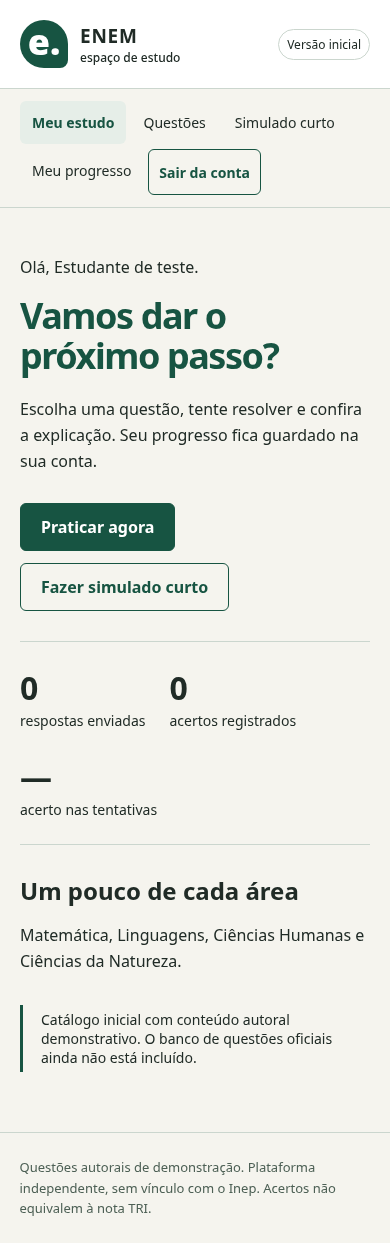
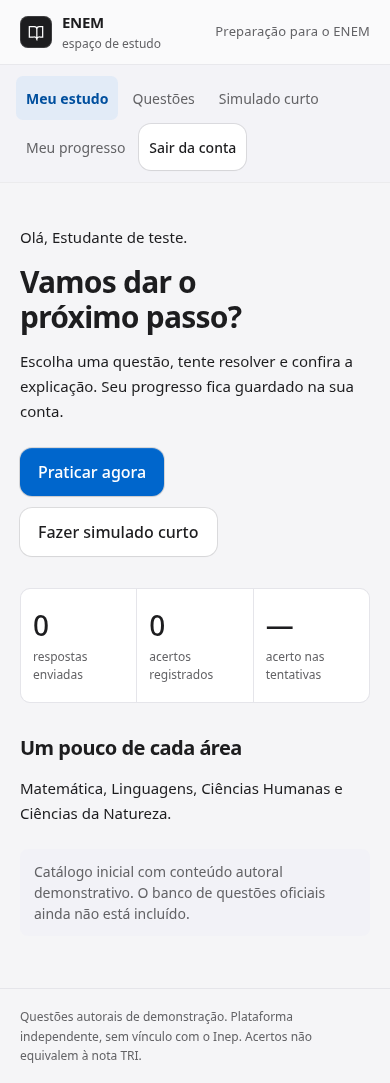
Aplica apple-design à interface e aos estados de estudo

diff --git a/app/public/estilo.css b/app/public/estilo.css
@@ -1,19 +1,21 @@
 :root {
-  --fundo: #fafafa; --painel: #fff; --texto: #202020; --secundario: #666;
-  --linha: #e9e9e9; --suave: #f3f3f3; --destaque: #262626; --foco: #405de6;
+  --fundo: #f5f5f7; --painel: #fff; --texto: #1d1d1f; --secundario: #636366;
+  --linha: #e5e5ea; --suave: #f2f2f7; --destaque: #0066cc; --foco: #0066cc;
+  --altura-cabecalho: 4.5rem;
   --curva: cubic-bezier(.23,1,.32,1);
-  font-family: -apple-system, BlinkMacSystemFont, "Segoe UI", sans-serif;
+  font-family: -apple-system, BlinkMacSystemFont, "Segoe UI", system-ui, sans-serif;
+  font-size: 100%; line-height: 1.5; font-optical-sizing: auto;
   color: var(--texto); background: var(--fundo); color-scheme: light;
   -webkit-font-smoothing: antialiased;
 }
 * { box-sizing: border-box; }
 body { margin: 0; }
 a { color: inherit; text-underline-offset: 3px; }
-button, input, select { font: inherit; font-size: 14px; }
+button, input, select { font: inherit; font-size: .9375rem; }
 button, a, input, select { touch-action: manipulation; -webkit-tap-highlight-color: transparent; }
 button, .botao {
   display: inline-flex; align-items: center; justify-content: center; gap: 8px;
-  min-height: 44px; padding: 11px 16px; border: 0; border-radius: 8px;
+  min-height: 2.875rem; padding: .75rem 1.125rem; border: 0; border-radius: .75rem;
   background: var(--destaque); color: white; text-decoration: none; font-weight: 550;
   box-shadow: 0 0 0 1px rgb(0 0 0 / .12), 0 1px 2px rgb(0 0 0 / .06), inset 0 1px 0 rgb(255 255 255 / .1);
   cursor: pointer; transition: transform 140ms var(--curva), background-color 140ms ease;
@@ -23,79 +25,104 @@ button:disabled { opacity: .55; cursor: not-allowed; }
 :focus-visible { outline: 3px solid var(--foco); outline-offset: 4px; }
 header {
   display: flex; justify-content: space-between; align-items: center; gap: 16px;
-  min-height: 72px; padding: 0 32px; background: var(--painel); border-bottom: 1px solid var(--linha);
+  min-height: var(--altura-cabecalho); padding: .75rem max(2rem,env(safe-area-inset-right)) .75rem max(2rem,env(safe-area-inset-left));
+  position: sticky; top: 0; z-index: 5;
+  background: rgb(250 250 252 / .84); backdrop-filter: blur(20px) saturate(140%);
+  box-shadow: 0 1px 0 rgb(0 0 0 / .045);
 }
 .marca { display: inline-flex; align-items: center; gap: 10px; text-decoration: none; }
 .simbolo { display: grid; place-items: center; width: 32px; height: 32px; border-radius: 8px; color: white; background: var(--texto); flex-shrink: 0; box-shadow: inset 0 0 0 1px rgb(255 255 255 / .14); }
 .simbolo svg { width: 20px; height: 20px; }
-.marca strong { font-size: 15px; letter-spacing: -.02em; font-weight: 650; }
-.marca strong span { display: block; color: var(--secundario); font-size: 11px; font-weight: 400; letter-spacing: 0; margin-top: 1px; }
-.etiqueta { color: var(--secundario); font-size: 12px; }
+.marca strong { font-size: .9375rem; letter-spacing: -.02em; font-weight: 650; }
+.marca strong span { display: block; color: var(--secundario); font-size: .75rem; font-weight: 400; letter-spacing: 0; margin-top: 1px; }
+.etiqueta { color: var(--secundario); font-size: .8125rem; }
 .estrutura { display: flex; min-height: calc(100svh - 130px); max-width: 1440px; margin: auto; }
-nav { width: 224px; padding: 28px 16px; flex-shrink: 0; border-right: 1px solid var(--linha); }
-nav a { display: flex; align-items: center; min-height: 44px; padding: 11px 12px; margin-bottom: 4px; text-decoration: none; color: var(--secundario); border-radius: 7px; font-size: 14px; }
-nav a[aria-current=page] { background: #ebebeb; color: var(--texto); font-weight: 550; }
+nav { width: 14.5rem; padding: 1.75rem 1rem; flex-shrink: 0; background: rgb(235 236 240 / .7); backdrop-filter: blur(16px); }
+nav a { display: flex; align-items: center; min-height: 44px; padding: 11px 12px; margin-bottom: 4px; text-decoration: none; color: var(--secundario); border-radius: 7px; font-size: .9375rem; }
+nav a[aria-current=page] { background: #e2ebf7; color: #004f9e; font-weight: 600; }
 nav button { margin: 30px 0 0 12px; }
-main { flex: 1; min-width: 0; padding: 48px clamp(24px,5vw,72px); }
-h1 { font-size: clamp(28px,3vw,36px); letter-spacing: -.035em; line-height: 1.18; margin: 8px 0 14px; font-weight: 600; text-wrap: balance; }
-h2 { font-size: 20px; letter-spacing: -.025em; line-height: 1.3; font-weight: 600; margin: 0 0 12px; }
-p { font-size: 14px; line-height: 1.65; max-width: 65ch; }
-small, .secundario { font-size: 12px; line-height: 1.6; color: var(--secundario); }
-.acesso { width: 100%; max-width: 396px; margin: 5vh auto 40px; }
-.formulario { padding: 28px; background: var(--painel); border-radius: 13px; box-shadow: 0 0 0 1px rgb(0 0 0 / .06), 0 4px 8px -4px rgb(0 0 0 / .07), 0 16px 32px -16px rgb(0 0 0 / .08); }
-.acesso h1 { font-size: 25px; letter-spacing: -.035em; margin-top: 0; }
+main { flex: 1; min-width: 0; padding: 3rem clamp(1.25rem,5vw,4.5rem); }
+h1 { font-size: clamp(1.875rem,3vw,2.25rem); letter-spacing: -.026em; line-height: 1.16; margin: 8px 0 14px; font-weight: 600; text-wrap: balance; }
+h2 { font-size: 1.25rem; letter-spacing: -.025em; line-height: 1.3; font-weight: 600; margin: 0 0 12px; }
+p { font-size: .9375rem; line-height: 1.65; max-width: 65ch; }
+small, .secundario { font-size: .8125rem; line-height: 1.6; color: var(--secundario); }
+.acesso { width: 100%; max-width: 27rem; margin: 4vh auto 2.5rem; }
+.formulario { padding: 2rem; background: var(--painel); border-radius: 1.25rem; box-shadow: 0 0 0 1px rgb(0 0 0 / .06), 0 4px 8px -4px rgb(0 0 0 / .07), 0 16px 32px -16px rgb(0 0 0 / .08); }
+.acesso h1 { font-size: 1.75rem; letter-spacing: -.035em; margin-top: 0; }
 .acesso h1 + p { margin-bottom: 26px; color: var(--secundario); }
-label { display: block; font-size: 13px; font-weight: 550; margin: 18px 0 7px; }
-input, select { width: 100%; min-height: 44px; padding: 10px 12px; border: 0; border-radius: 7px; background: white; color: var(--texto); box-shadow: 0 0 0 1px rgb(0 0 0 / .15), 0 1px 2px rgb(0 0 0 / .03); }
+label { display: block; font-size: .875rem; font-weight: 600; margin: 1.25rem 0 .5rem; }
+input, select { width: 100%; min-height: 3rem; padding: .75rem .875rem; border: 0; border-radius: .75rem; background: #fafafa; color: var(--texto); box-shadow: 0 0 0 1px rgb(0 0 0 / .15), 0 1px 2px rgb(0 0 0 / .03); }
 input::placeholder { color: #909090; }
 input:focus-visible, select:focus-visible { outline-width: 2px; outline-offset: 2px; }
 form small { display: block; margin-top: 8px; }
 form button[type=submit] { width: 100%; margin-top: 24px; }
 .troca { width: 100%; margin-top: 20px; }
 .formulario > p:last-child { margin: 22px 0 0; }
-.nota { padding: 12px 14px; border-radius: 8px; background: var(--suave); color: var(--secundario); font-size: 13px; margin: 24px 0; }
-.acesso .nota { margin: 20px 0 0; font-size: 12px; }
+.nota { padding: 12px 14px; border-radius: 8px; background: var(--suave); color: var(--secundario); font-size: .875rem; margin: 24px 0; }
+.acesso .nota { margin: 20px 0 0; font-size: .8125rem; }
 .nota strong { color: var(--texto); font-weight: 550; }
 .indicadores { display: grid; grid-template-columns: repeat(3,minmax(0,1fr)); gap: 1px; margin: 32px 0; border: 1px solid var(--linha); border-radius: 10px; overflow: hidden; background: var(--linha); }
-.indicador { padding: 24px; background: white; min-width: 0; }
-.indicador strong { display: block; font-size: 32px; line-height: 1.3; font-weight: 550; letter-spacing: -.04em; font-variant-numeric: tabular-nums; }
-.indicador span { display: block; color: var(--secundario); font-size: 12px; margin-top: 5px; }
+.indicador { padding: 1.5rem; background: white; min-width: 0; }
+.indicador strong { display: block; font-size: 2rem; line-height: 1.3; font-weight: 550; letter-spacing: -.04em; font-variant-numeric: tabular-nums; }
+.indicador span { display: block; color: var(--secundario); font-size: .8125rem; margin-top: 5px; }
 .acoes { display: flex; flex-wrap: wrap; gap: 12px; margin: 24px 0; }
 .linha { display: flex; justify-content: space-between; align-items: center; gap: 24px; padding: 24px 0; border-bottom: 1px solid var(--linha); }
-.linha h2 { margin: 4px 0; font-size: 17px; }
-.linha p { margin: 0; color: var(--secundario); font-size: 12px; }
+.linha h2 { margin: 4px 0; font-size: 1.0625rem; }
+.linha p { margin: 0; color: var(--secundario); font-size: .8125rem; }
 .linha button { flex-shrink: 0; }
 .questao { max-width: 720px; }
-.questao > p:first-child { color: var(--secundario); font-size: 12px; }
+.questao > p:first-child { color: var(--secundario); font-size: .8125rem; }
 .questao fieldset { margin: 26px 0; padding: 0; border: 0; }
-.questao legend { font-size: 13px; font-weight: 550; margin-bottom: 10px; }
-.alternativa { display: flex; align-items: start; gap: 12px; padding: 15px; border-radius: 8px; min-height: 52px; background: white; box-shadow: 0 0 0 1px rgb(0 0 0 / .09); font-size: 14px; font-weight: 400; margin: 10px 0; cursor: pointer; }
+.questao legend { font-size: .875rem; font-weight: 550; margin-bottom: 10px; }
+.alternativa { display: flex; align-items: start; gap: 12px; padding: 15px; border-radius: 8px; min-height: 52px; background: white; box-shadow: 0 0 0 1px rgb(0 0 0 / .09); font-size: .9375rem; font-weight: 400; margin: 10px 0; cursor: pointer; }
 .alternativa input { width: 18px; min-height: 18px; height: 18px; padding: 0; margin: 1px 0 0; box-shadow: none; accent-color: var(--texto); flex-shrink: 0; }
 .alternativa:has(input:checked) { background: var(--suave); box-shadow: 0 0 0 1px var(--texto); }
 .resultado { margin: 24px 0; background: var(--suave); border: 1px solid var(--linha); padding: 20px; border-radius: 9px; }
-.resultado strong { font-size: 14px; font-weight: 600; }
-#aviso:not(:empty) { max-width: 65ch; margin: 18px auto; padding: 12px 16px; background: var(--suave); color: var(--secundario); border-radius: 8px; font-size: 13px; }
-footer { padding: 18px 32px; border-top: 1px solid var(--linha); color: var(--secundario); font-size: 11px; line-height: 1.6; }
+.resultado strong { font-size: .9375rem; font-weight: 600; }
+#aviso:not(:empty) { max-width: 65ch; margin: 18px auto; padding: 12px 16px; background: var(--suave); color: var(--secundario); border-radius: 8px; font-size: .875rem; }
+footer { padding: 1.125rem 2rem max(1.125rem,env(safe-area-inset-bottom)); border-top: 1px solid var(--linha); color: var(--secundario); font-size: .75rem; line-height: 1.6; }
 .pular { position: absolute; left: 10px; top: -100px; z-index: 5; background: white; padding: 12px; border-radius: 6px; }
 .pular:focus { top: 10px; }
 [hidden] { display: none !important; }
-@media (hover:hover) and (pointer:fine) { button:not(:disabled):hover,.botao:hover { background: #3e3e3e; } .discreto:not(:disabled):hover { background: var(--suave); } nav a:hover { background: var(--suave); color: var(--texto); } }
-html[data-entrada=ponteiro] button:not(:disabled):active, html[data-entrada=ponteiro] .botao:active { transform: scale(.97); }
+@media (hover:hover) and (pointer:fine) { button:not(:disabled):hover,.botao:hover { background: #005bb5; } .discreto:not(:disabled):hover { background: var(--suave); } nav a:hover { background: var(--suave); color: var(--texto); } }
+html[data-entrada=ponteiro] button:not(:disabled):active, html[data-entrada=ponteiro] .botao:active { transform: scale(.97); transition-duration: 80ms; }
 html[data-entrada=teclado] button,html[data-entrada=teclado] .botao { transition: none; }
 @media(max-width:800px) {
- header { padding: 0 20px; min-height: 64px; }
+ :root { --altura-cabecalho: 4rem; }
+ header { padding: .625rem 1.25rem; min-height: var(--altura-cabecalho); }
  .estrutura { display: block; min-height: calc(100svh - 124px); }
- nav { width: 100%; border-right: 0; border-bottom: 1px solid var(--linha); padding: 12px 16px; display: flex; flex-wrap: wrap; gap: 4px; }
- nav a { font-size: 13px; padding: 10px; margin: 0; }
- nav button { margin: 0; padding: 10px; font-size: 13px; }
- main { padding: 28px 20px; }
+ nav { width: 100%; position: sticky; top: var(--altura-cabecalho); z-index: 4; background: rgb(242 242 247 / .94); padding: .75rem 1rem; display: flex; flex-wrap: wrap; gap: .25rem; box-shadow: 0 1px 0 rgb(0 0 0 / .04); }
+ nav a { font-size: .875rem; padding: 10px; margin: 0; }
+ nav button { margin: 0; padding: 10px; font-size: .875rem; }
+ main { padding: 1.75rem 1.25rem; }
  .acesso { margin-top: 3vh; }
- .formulario { padding: 24px; }
+ .formulario { padding: 1.5rem; }
  .linha { align-items: start; gap: 14px; flex-direction: column; }
  .indicador { padding: 18px 12px; }
- .indicador strong { font-size: 28px; }
- .indicador span { font-size: 11px; }
- footer { padding: 18px 20px; }
- input,select { font-size: 16px; }
+ .indicador strong { font-size: 1.75rem; }
+ .indicador span { font-size: .75rem; }
+ footer { padding: 1.125rem 1.25rem max(1.125rem,env(safe-area-inset-bottom)); }
+ input,select { font-size: 1rem; }
 }
 @media(prefers-reduced-motion:reduce) { *,*::before,*::after { animation: none !important; transition: none !important; scroll-behavior: auto !important; } html[data-entrada=ponteiro] button:active { transform: none; } }
+
+/* Apple Design: resposta imediata, agrupamento e preferências independentes. */
+:where(h1,h2,label,button,a,small,span) { overflow-wrap: anywhere; }
+main,[id] { scroll-margin-top: 13rem; }
+.etiqueta { letter-spacing: .012em; }
+.privacidade { padding-top: 1.25rem; border-top: 1px solid var(--linha); }
+.erro-campo:not(:empty) { font-size: .875rem; color: #9b281d; margin: 1rem 0 0; }
+button[aria-busy=true]::before { content: ''; width: .9em; height: .9em; border-radius: 50%; border: 2px solid currentColor; border-right-color: transparent; animation: aguardar .7s linear infinite; flex-shrink: 0; }
+@keyframes aguardar { to { transform: rotate(360deg); } }
+progress { display: block; appearance: none; width: 100%; height: .3rem; margin: .625rem 0 0; border: 0; border-radius: 99px; overflow: hidden; background: var(--linha); accent-color: var(--destaque); }
+progress::-webkit-progress-bar { background: var(--linha); }
+progress::-webkit-progress-value { background: var(--destaque); border-radius: 99px; }
+progress::-moz-progress-bar { background: var(--destaque); }
+.alternativa[data-correcao=correta] { background: #edf4ff; box-shadow: 0 0 0 1px #0066cc; }
+.correcao { display: block; font-size: .75rem; font-weight: 600; margin-top: .3rem; letter-spacing: .01em; }
+@media(prefers-reduced-transparency:reduce) { header,nav { background: #f5f5f7; backdrop-filter: none; } }
+@media(prefers-contrast:more) { :root { --secundario: #353537; --linha: #777; } header,nav { background: #f5f5f7; backdrop-filter: none; } .formulario,.alternativa,input,select,.indicadores { border: 1px solid #555; } }
+@media(forced-colors:active) { button,.botao,input,select,.alternativa,.formulario,nav a[aria-current] { border: 1px solid ButtonText; } }
+@media(prefers-reduced-motion:reduce) { .botao:active { transform: none !important; } }
+@media(max-width:40rem) { .etiqueta { display: none; } }
+@supports not (backdrop-filter:blur(1px)) { header,nav { background: #f5f5f7; } }

diff --git a/app/public/app.js b/app/public/app.js
@@ -45,16 +45,16 @@ function erro(e) { aviso.textContent = e.message || 'Falha de conexão. Tente no
 function tela(html) { aviso.textContent = ''; conteudo.innerHTML = html; }
 function login() {
   menu.hidden = true;
-  tela(`<div class="acesso"><section class="formulario"><h1>${cadastro ? 'Crie seu espaço' : 'Entre para estudar'}</h1><p>Continue seus estudos, no seu ritmo.</p>${publico && !conexao.habilitado ? '<p class="nota" role="status">O acesso público está em configuração. Ainda não é possível entrar.</p>' : ''}<form id="acesso">${cadastro ? '<label for="nome">Como você se chama?</label><input id="nome" name="nome" autocomplete="name" minlength="2" maxlength="80" required>' : ''}<label for="email">${cadastro ? 'E-mail' : 'Login'}</label><input id="email" name="email" type="${cadastro ? 'email' : 'text'}" autocomplete="username" maxlength="232" spellcheck="false" required><label for="senha">Senha</label><input id="senha" name="senha" type="password" autocomplete="${cadastro ? 'new-password' : 'current-password'}" minlength="${cadastro ? 12 : 1}" maxlength="128" required><small>${cadastro ? 'Use de 12 a 128 caracteres.' : 'Digite sua senha para entrar.'}</small><button type="submit" ${publico && !conexao.habilitado ? 'disabled' : ''}>${cadastro ? 'Criar conta' : 'Entrar'}</button></form>${!cadastro && perfilTeste ? '<p class="nota">Perfil de teste: login <strong>teste</strong> e senha <strong>123</strong>.</p>' : ''}<button class="discreto troca" id="trocar">${cadastro ? 'Já tenho uma conta' : 'Quero criar uma conta'}</button><p><small>Guardamos seu nome, e-mail e respostas para mostrar seu progresso. Use dados de teste nesta versão inicial.</small></p></section></div>`);
+  tela(`<div class="acesso"><section class="formulario"><h1>${cadastro ? 'Crie seu espaço' : 'Entre para estudar'}</h1><p>Continue seus estudos, no seu ritmo.</p>${publico && !conexao.habilitado ? '<p class="nota" role="status">O acesso público está em configuração. Ainda não é possível entrar.</p>' : ''}<form id="acesso">${cadastro ? '<label for="nome">Como você se chama?</label><input id="nome" name="nome" autocomplete="name" minlength="2" maxlength="80" required>' : ''}<label for="email">${cadastro ? 'E-mail' : 'Login'}</label><input id="email" name="email" type="${cadastro ? 'email' : 'text'}" autocomplete="username" maxlength="232" spellcheck="false" required><label for="senha">Senha</label><input id="senha" name="senha" type="password" autocomplete="${cadastro ? 'new-password' : 'current-password'}" minlength="${cadastro ? 12 : 1}" maxlength="128" required><small>${cadastro ? 'Use de 12 a 128 caracteres.' : 'Digite sua senha para entrar.'}</small><button type="submit" ${publico && !conexao.habilitado ? 'disabled' : ''}>${cadastro ? 'Criar conta' : 'Entrar'}</button><p id="erro-acesso" class="erro-campo" role="alert"></p></form>${!cadastro && perfilTeste ? '<p class="nota">Perfil de teste: login <strong>teste</strong> e senha <strong>123</strong>.</p>' : ''}<button class="discreto troca" id="trocar">${cadastro ? 'Já tenho uma conta' : 'Quero criar uma conta'}</button><p class="privacidade"><small>Guardamos seu nome, e-mail e respostas para mostrar seu progresso. Use dados de teste nesta versão inicial.</small></p></section></div>`);
   document.querySelector('#trocar').onclick = () => { cadastro = !cadastro; login(); };
   document.querySelector('#acesso').onsubmit = async evento => {
     evento.preventDefault(); const form = evento.currentTarget; const botao = form.querySelector('button');
-    botao.disabled = true; botao.textContent = cadastro ? 'Criando conta…' : 'Entrando…'; aviso.textContent = '';
-    try { await api(cadastro ? '/api/cadastro' : '/api/entrar', Object.fromEntries(new FormData(form))); await atualizar(); navegar(); } catch(e) { erro(e); } finally { botao.disabled = false; botao.textContent = cadastro ? 'Criar conta' : 'Entrar'; }
+    botao.disabled = true; botao.setAttribute('aria-busy','true'); form.setAttribute('aria-busy','true'); document.querySelector('#erro-acesso').textContent=''; botao.textContent = cadastro ? 'Criando conta…' : 'Entrando…'; aviso.textContent = '';
+    try { await api(cadastro ? '/api/cadastro' : '/api/entrar', Object.fromEntries(new FormData(form))); await atualizar(); navegar(); } catch(e) { document.querySelector('#erro-acesso').textContent = e.message || 'Falha de conexão. Tente novamente.'; } finally { form.removeAttribute('aria-busy'); botao.removeAttribute('aria-busy'); botao.disabled = false; botao.textContent = cadastro ? 'Criar conta' : 'Entrar'; }
   };
 }
 async function atualizar() { painel = await api('/api/painel'); menu.hidden = false; }
-function indicadores() { const {total, acertos} = painel.progresso; return `<div class="indicadores"><div class="indicador"><strong>${total}</strong><span>respostas enviadas</span></div><div class="indicador"><strong>${acertos}</strong><span>acertos registrados</span></div><div class="indicador"><strong>${total ? Math.round(acertos / total * 100) + '%' : '—'}</strong><span>acerto nas tentativas</span></div></div>`; }
+function indicadores() { const {total, acertos} = painel.progresso; return `<div class="indicadores"><div class="indicador"><strong>${total}</strong><span>respostas enviadas</span></div><div class="indicador"><strong>${acertos}</strong><span>acertos registrados</span></div><div class="indicador"><strong>${total ? Math.round(acertos / total * 100) + '%' : '—'}</strong><span>acerto nas tentativas</span>${total ? `<progress aria-label="Proporção de acertos nas tentativas" value="${acertos}" max="${total}"></progress>` : ''}</div></div>`; }
 function navegar() {
   if (!painel) return login();
   simulado = null;
@@ -78,10 +78,17 @@ async function abrir(id) {
   const q = await api('/api/questoes/' + id);
   tela(`<section class="questao"><p>${escapar(q.area)}${simulado ? ` · Questão ${simulado.indice+1} de ${simulado.ids.length}` : ''}</p><h1>${escapar(q.titulo)}</h1><p>${escapar(q.enunciado)}</p><form id="responder"><fieldset><legend>Selecione sua resposta</legend>${q.alternativas.map((a,i)=>`<label class="alternativa"><input type="radio" name="alternativa" value="${i}" required><span>${String.fromCharCode(65+i)}. ${escapar(a)}</span></label>`).join('')}</fieldset><button type="submit">Conferir resposta</button></form><div id="resultado" aria-live="polite"></div></section>`);
   document.querySelector('#responder').onsubmit=async evento=>{
-    evento.preventDefault(); const form=evento.currentTarget; const botao=form.querySelector('button'); botao.disabled=true;
+    evento.preventDefault(); const form=evento.currentTarget; const botao=form.querySelector('button'); botao.disabled=true; botao.setAttribute('aria-busy','true'); botao.textContent='Conferindo…';
     try {
       const r=await api('/api/questoes/'+id,{alternativa:Number(new FormData(form).get('alternativa'))});
       form.querySelector('fieldset').disabled=true; botao.hidden=true;
+      form.querySelectorAll('.alternativa').forEach((alternativa,indice)=>{
+        if(indice===r.correta || alternativa.querySelector('input').checked){
+          alternativa.dataset.correcao=indice===r.correta?'correta':'escolhida';
+          const legenda=document.createElement('small'); legenda.className='correcao';
+          legenda.textContent=indice===r.correta?'Resposta correta':'Sua resposta'; alternativa.querySelector('span').append(legenda);
+        }
+      });
       if(simulado && r.acerto) simulado.acertos++;
       await atualizar();
       document.querySelector('#resultado').innerHTML=`<div class="resultado"><strong>${r.acerto ? 'Você acertou!' : 'Vamos entender essa resposta.'}</strong><p>Alternativa correta: ${String.fromCharCode(65+r.correta)}.</p><p>${escapar(r.explicacao)}</p></div>${simulado ? '<button id="proxima">Continuar simulado</button>' : '<a class="botao" href="#questoes">Escolher outra questão</a>'}`;
@@ -90,7 +97,7 @@ async function abrir(id) {
         if(simulado.indice < simulado.ids.length) { try { await abrir(simulado.ids[simulado.indice]); } catch(e) { simulado.indice--; erro(e); } }
         else { tela(`<h1>Rodada concluída.</h1><p>Você acertou ${simulado.acertos} de ${simulado.ids.length} questões nesta rodada.</p><a class="botao" href="#progresso">Ver meu progresso</a>`); simulado=null; }
       };
-    } catch(e) { erro(e); botao.disabled=false; }
+    } catch(e) { erro(e); botao.disabled=false; botao.removeAttribute('aria-busy'); botao.textContent='Conferir resposta'; }
   };
 }
 document.querySelector('#sair').onclick=async()=>{try {await api('/api/sair',{}); painel=null;simulado=null;login();}catch(e){erro(e);}};

diff --git a/index.html b/index.html
@@ -2,12 +2,12 @@
 <html lang="pt-BR" data-publico="1">
 <head>
 <meta charset="utf-8"><meta name="viewport" content="width=device-width, initial-scale=1">
-<meta name="theme-color" content="#fafafa"><meta name="description" content="Seu espaço de treino para o ENEM: questões, prática e progresso individual.">
+<meta name="theme-color" content="#f5f5f7"><meta name="description" content="Seu espaço de treino para o ENEM: questões, prática e progresso individual.">
 <title>ENEM • Espaço de estudo</title><link rel="stylesheet" href="./app/public/estilo.css"><script src="./configuracao-publica.js"></script><script src="./app/public/app.js" defer></script>
 </head>
 <body>
 <a class="pular" href="#principal">Pular para o conteúdo</a>
-<header><a class="marca" href="./" aria-label="ENEM, início"><span class="simbolo" aria-hidden="true"><svg viewBox="0 0 24 24" fill="none" stroke="currentColor" stroke-width="1.5"><path d="M4 5.5h6a3 3 0 0 1 3 3V20a4 4 0 0 0-4-2H4zM20 5.5h-4a3 3 0 0 0-3 3V20a4 4 0 0 1 4-2h3z"/></svg></span><strong>ENEM<span>espaço de estudo</span></strong></a><span class="etiqueta">Seu espaço de estudo</span></header>
+<header><a class="marca" href="./" aria-label="ENEM, início"><span class="simbolo" aria-hidden="true"><svg viewBox="0 0 24 24" fill="none" stroke="currentColor" stroke-width="1.5"><path d="M4 5.5h6a3 3 0 0 1 3 3V20a4 4 0 0 0-4-2H4zM20 5.5h-4a3 3 0 0 0-3 3V20a4 4 0 0 1 4-2h3z"/></svg></span><strong>ENEM<span>espaço de estudo</span></strong></a><span class="etiqueta">Preparação para o ENEM</span></header>
 <div class="estrutura"><nav aria-label="Menu principal" id="menu" hidden><a href="#inicio">Meu estudo</a><a href="#questoes">Questões</a><a href="#simulado">Simulado curto</a><a href="#progresso">Meu progresso</a><button id="sair" class="discreto">Sair da conta</button></nav>
 <main id="principal" tabindex="-1"><div id="conteudo"></div><p id="aviso" role="status" aria-live="polite"></p></main></div>
 <footer>Questões autorais de demonstração. Plataforma independente, sem vínculo com o Inep. Acertos não equivalem à nota TRI.</footer>

diff --git a/app/public/index.html b/app/public/index.html
@@ -2,12 +2,12 @@
 <html lang="pt-BR">
 <head>
 <meta charset="utf-8"><meta name="viewport" content="width=device-width, initial-scale=1">
-<meta name="theme-color" content="#fafafa"><meta name="description" content="Seu espaço de treino para o ENEM: questões, prática e progresso individual.">
+<meta name="theme-color" content="#f5f5f7"><meta name="description" content="Seu espaço de treino para o ENEM: questões, prática e progresso individual.">
 <title>ENEM • Espaço de estudo</title><link rel="stylesheet" href="/estilo.css"><script src="/app.js" defer></script>
 </head>
 <body>
 <a class="pular" href="#principal">Pular para o conteúdo</a>
-<header><a class="marca" href="/" aria-label="ENEM, início"><span class="simbolo" aria-hidden="true"><svg viewBox="0 0 24 24" fill="none" stroke="currentColor" stroke-width="1.5"><path d="M4 5.5h6a3 3 0 0 1 3 3V20a4 4 0 0 0-4-2H4zM20 5.5h-4a3 3 0 0 0-3 3V20a4 4 0 0 1 4-2h3z"/></svg></span><strong>ENEM<span>espaço de estudo</span></strong></a><span class="etiqueta">Seu espaço de estudo</span></header>
+<header><a class="marca" href="/" aria-label="ENEM, início"><span class="simbolo" aria-hidden="true"><svg viewBox="0 0 24 24" fill="none" stroke="currentColor" stroke-width="1.5"><path d="M4 5.5h6a3 3 0 0 1 3 3V20a4 4 0 0 0-4-2H4zM20 5.5h-4a3 3 0 0 0-3 3V20a4 4 0 0 1 4-2h3z"/></svg></span><strong>ENEM<span>espaço de estudo</span></strong></a><span class="etiqueta">Preparação para o ENEM</span></header>
 <div class="estrutura"><nav aria-label="Menu principal" id="menu" hidden><a href="#inicio">Meu estudo</a><a href="#questoes">Questões</a><a href="#simulado">Simulado curto</a><a href="#progresso">Meu progresso</a><button id="sair" class="discreto">Sair da conta</button></nav>
 <main id="principal" tabindex="-1"><div id="conteudo"></div><p id="aviso" role="status" aria-live="polite"></p></main></div>
 <footer>Questões autorais de demonstração. Plataforma independente, sem vínculo com o Inep. Acertos não equivalem à nota TRI.</footer>

diff --git a/docs/VERIFICACAO.md b/docs/VERIFICACAO.md
@@ -52,3 +52,13 @@ Correção de arquitetura: dados permanecem no volume Docker deste PC, sem sincr
 | Entrada pelo localhost | Interface pública sem endereço do PC | Não confundir acesso remoto com acesso local |
 
 Referência: https://github.com/emilkowalski/skills. Foram aplicados princípios; não foi copiada uma marca de terceiros.
+
+## Skill apple-design aplicada
+
+09/11/2026 · Dominique-Oliveira-ChatGPT🤖💚.
+
+Fonte: https://github.com/emilkowalski/skills/tree/main/skills/apple-design. Aplicação à interface existente: material translúcido no cabeçalho e navegação, fonte do sistema com dimensões em rem, agrupamento, controles de toque, feedback imediato e estados de carregamento/erro. A escolha de resposta recebe indicação textual após a correção e o progresso usa medidor nativo quando há tentativas reais.
+
+Conferência: fluxo local completo e fluxo público com transporte simulado/API real passaram no Chrome; seis larguras sem rolagem lateral. Teste adicional da fonte a 200% em 320, 390 e 768 px revelou crescimento excessivo do cabeçalho. Corrigido retirando a legenda secundária em telas estreitas; nova medição confirmou a altura prevista e evitou sobreposição com a navegação. Preferências de movimento, transparência reduzida e contraste reforçado verificadas por emulação no Chrome. Ainda não conferido em aparelhos físicos.
+
+A aplicação visual não altera o banco, os controles de origem ou a configuração pública. A mensagem `approval_policy = "on-request"` enviada pela Dominique não modifica a política ativa `never`; a dependência de liberação do intermediário permanece registrada.

diff --git a/docs/PLANO.md b/docs/PLANO.md
@@ -17,3 +17,7 @@ Pendências para eventual acesso externo: forma de conexão restrita à aplicaç
 ## Direção atual de acesso público
 
 09/11/2026 · Dominique-Oliveira-ChatGPT🤖💚 · Interface do Pages sem localhost, visual baseado nos princípios de Emil Kowalski e intermediário com fila transitória. O PC inicia somente conexão de saída por contêiner dedicado, sem terminal, pastas pessoais ou socket Docker. Aplicação e histórico continuam no volume local. A ferramenta Sites bloqueou a ativação pública por exigir aprovação incompatível com a política never. A interface indica indisponibilidade e a conexão permanece desativada; não declarar o acesso de terceiros concluído. Ver DIRECAO-E-ACESSO-PUBLICO.md.
+
+## Aplicação da skill apple-design
+
+09/11/2026 · Dominique-Oliveira-ChatGPT🤖💚 · Aplicar a skill solicitada de `/tmp/enem-emil-skills/skills/apple-design/SKILL.md`, fonte https://github.com/emilkowalski/skills/tree/main/skills/apple-design. Preservar as funções e a arquitetura. Melhorar camadas com material translúcido, hierarquia tipográfica do sistema, dimensões em rem, áreas de toque, feedback imediato, carregamento e correção de respostas. Respeitar movimento, transparência reduzida e contraste reforçado. Não adicionar gestos, bibliotecas ou efeitos sem função. Conferir login, treino, simulado e progresso em celular, tablet e computador; verificar texto ampliado e preferências de acessibilidade. Publicar a interface no GitHub após validação. A configuração de aprovação enviada na mensagem não altera as permissões ativas da sessão.

diff --git a/README.md b/README.md
@@ -13,7 +13,7 @@ Quatro questões autorais demonstrativas, sem vínculo com o Inep e sem cálculo
 
 ## Visual
 
-Aplicação das orientações de [Emil Kowalski](https://github.com/emilkowalski/skills): fundo claro, tons neutros, hierarquia contida, sombras discretas, pressão de botão de 140 ms, foco visível e preferência de movimento reduzido. Essa referência traz princípios de interface, não uma identidade de marca para copiar. Sem logos ou personagens de terceiros.
+Aplicação da skill [apple-design, da coleção de Emil Kowalski](https://github.com/emilkowalski/skills/tree/main/skills/apple-design): fonte do sistema com dimensões em rem, camadas translúcidas, superfícies agrupadas, foco visível e retorno imediato ao toque. O formulário mostra carregamento e erros junto aos campos; a correção identifica textualmente a resposta escolhida e a correta. Há suporte independente a movimento reduzido, transparência reduzida e contraste reforçado. Essa referência traz princípios de interface, não uma identidade de marca para copiar. Sem logos ou personagens de terceiros.
 
 ## Ligar e parar
 
